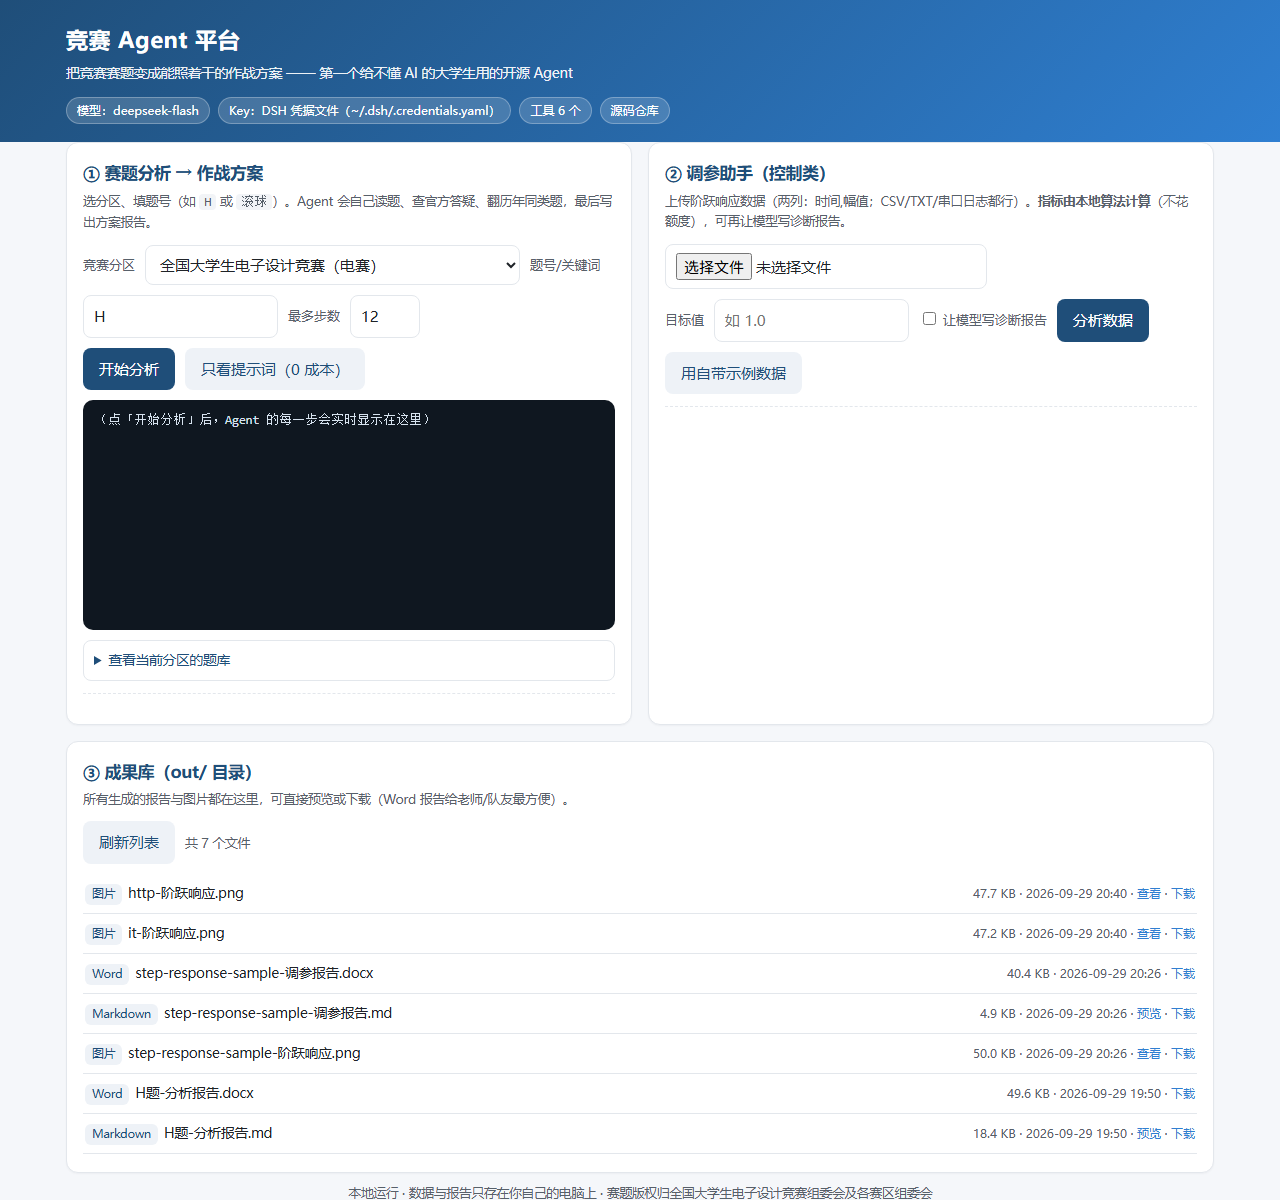
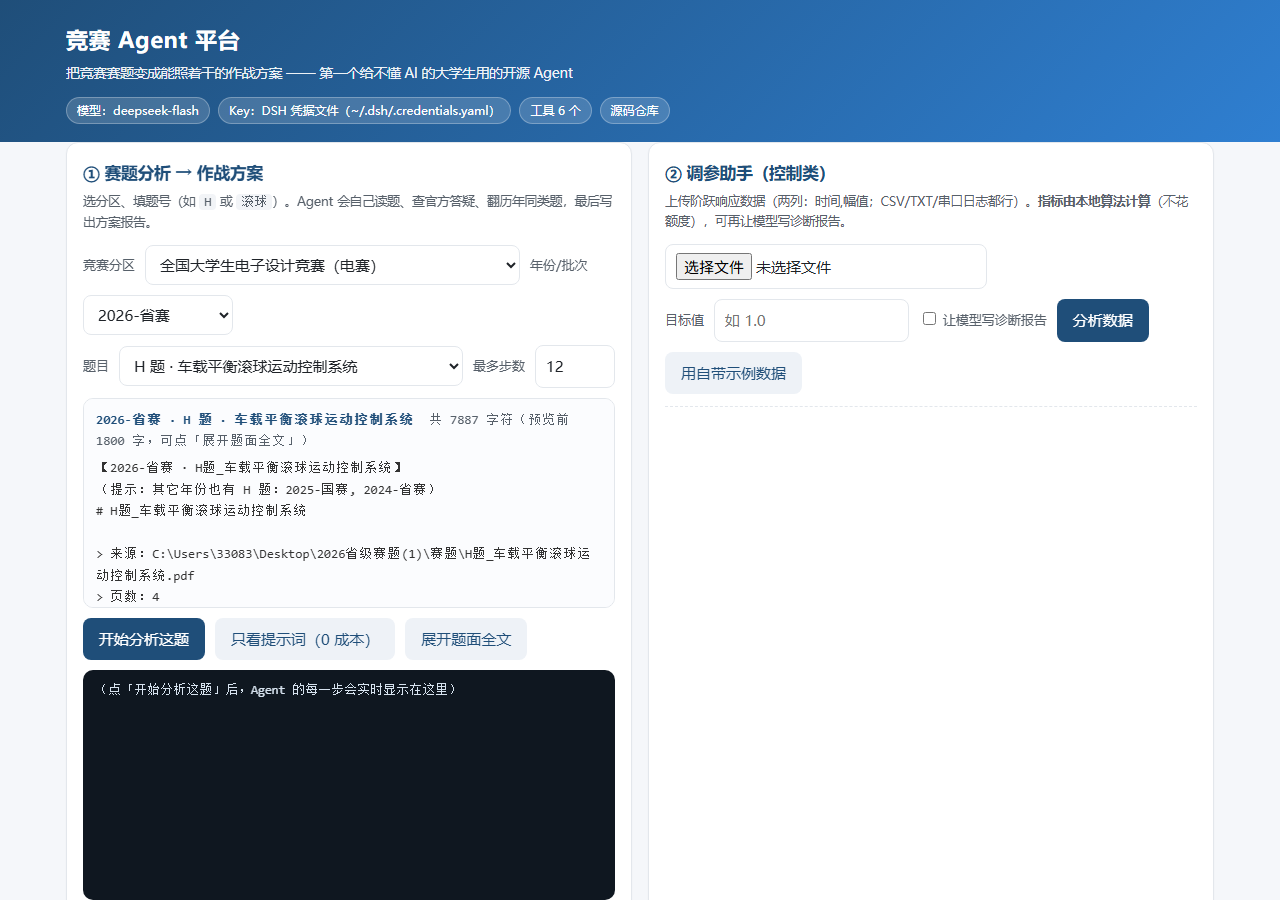
fix(web): 题目改成「年份/批次 + 题目」两级选择 + 题面预览（解决分析错年份）
问题（用户发现）：题库里 2021/2023/2024/2025/2026 都有 H 题，网页端只有一个
「题号/关键词」输入框，填 H 根本不知道要分析哪一年 —— 实际会按"最新年份"猜。

后端：
- shiti.py 新增 list_shiti_structured()（年份/批次、题号、题名、精确文件名、字数、label）
  与 _find_exact()（按文件名精确查找）
- read_shiti 新增 file 参数（精确文件名优先），并在多命中时提示其它年份
- 新接口 GET /api/shiti-list（结构化清单 + 年份列表）
- 新接口 GET /api/shiti-detail?file=...（按精确文件名读题面 + 元信息）
- /api/analyze 改为接收 file + label：任务描述里写明「2026-省赛 · H 题 · 车名」，
  并要求模型用 read_shiti(file=...) 精确定位、报告文件名带年份

前端：
- 第一行：竞赛分区 + 年份/批次；第二行：题目 + 最多步数（原排版会把"最多步数"挤到孤行）
- 新增题面预览面板（默认预览 1800 字，可点「展开题面全文」），
  预览里带年份/批次标题、字数、以及"其它年份也有 H 题：2025-国赛，2024-省赛"的提示
- 分析按钮改为「开始分析这题」，运行状态显示当前题目

测试：tests/test_web.py 20 → 32 项（覆盖结构化清单、同题号跨年份 5 道 H 题、
按 file 读题、题面元信息、非法 file 404、SSE 任务里带年份且要求 file 精确定位）。
三套共 79 项全过（全部离线）。

diff --git a/diansai_agent/web/static/index.html b/diansai_agent/web/static/index.html
@@ -50,6 +50,11 @@
   .log .ev-answer{color:#f9a8d4}
   .log .ev-error{color:#fca5a5}
   .log .ev-log{color:#cbd5e1}
+  .preview{background:#fbfcfe;border:1px solid var(--line);border-radius:10px;padding:10px 12px;
+           max-height:210px;overflow:auto;white-space:pre-wrap;font-size:13px;color:#333;
+           font-family:var(--mono);margin:4px 0 10px}
+  .preview.expanded{max-height:70vh}
+  .preview .pmeta{font-family:inherit;color:var(--brand);font-weight:600;margin-bottom:6px}
   .out{margin-top:12px;border-top:1px dashed var(--line);padding-top:12px}
   .out img{max-width:100%;border:1px solid var(--line);border-radius:8px;background:#fff}
   table{border-collapse:collapse;width:100%;margin:10px 0;font-size:13.5px}
@@ -89,19 +94,21 @@
       <p class="hint">选分区、填题号（如 <code>H</code> 或 <code>滚球</code>）。Agent 会自己读题、查官方答疑、翻历年同类题，最后写出方案报告。</p>
       <div class="row">
         <label>竞赛分区</label><select id="domain"></select>
-        <label>题号/关键词</label><input type="text" id="shiti" value="H" />
-        <label>最多步数</label><input type="number" id="steps" value="12" min="2" max="30" style="min-width:70px" />
+        <label>年份/批次</label><select id="year" style="min-width:150px"></select>
       </div>
       <div class="row">
-        <button id="goAnalyze">开始分析</button>
+        <label>题目</label><select id="shitiSel" style="flex:1;min-width:300px"></select>
+        <label title="Agent 最多跑多少步（越大越久，也越贵）">最多步数</label>
+        <input type="number" id="steps" value="12" min="2" max="30" style="min-width:70px;width:80px" />
+      </div>
+      <div class="preview" id="preview">（选好题目后，这里显示题面预览）</div>
+      <div class="row">
+        <button id="goAnalyze">开始分析这题</button>
         <button class="ghost" id="goDemo">只看提示词（0 成本）</button>
+        <button class="ghost" id="goFull">展开题面全文</button>
         <span class="status" id="analyzeStatus"></span>
       </div>
-      <div class="log" id="log">（点「开始分析」后，Agent 的每一步会实时显示在这里）</div>
-      <details id="shitiBox">
-        <summary>查看当前分区的题库</summary>
-        <pre id="shitiText">加载中…</pre>
-      </details>
+      <div class="log" id="log">（点「开始分析这题」后，Agent 的每一步会实时显示在这里）</div>
       <div class="out" id="analyzeOut"></div>
     </section>
 
@@ -195,17 +202,45 @@ const api=async(u,o)=>{const r=await fetch(u,o); if(!r.ok){const t=await r.text(
     ].join("");
     const d=await (await api("/api/domains")).json();
     $("domain").innerHTML=d.domains.map(x=>`<option value="${x.id}" ${x.implemented?"":"disabled"}>${x.name}${x.implemented?"":"（规划中）"}</option>`).join("");
-    loadShiti(); loadFiles();
+    await loadShitiList(); loadFiles();
   }catch(e){ $("ptag").textContent="加载失败："+e.message; }
 })();
 
-async function loadShiti(){
+// ───────────────────────── 题库：年份/批次 → 题目（两级选择 + 题面预览）─────────────────────────
+let SHITI=[], CUR=null;
+async function loadShitiList(){
   const dom=$("domain").value;
-  $("shitiText").textContent="加载中…";
-  try{ const r=await (await api("/api/shiti?domain="+encodeURIComponent(dom))).json();
-       $("shitiText").textContent=r.text; }catch(e){ $("shitiText").textContent="题库加载失败："+e.message; }
+  $("preview").innerHTML="（正在读取题库…）";
+  try{
+    const d=await (await api("/api/shiti-list?domain="+encodeURIComponent(dom))).json();
+    SHITI=d.items||[];
+    $("year").innerHTML='<option value="">全部年份/批次</option>'+
+      (d.years||[]).map(y=>`<option value="${y}">${y}</option>`).join("");
+    $("year").value=(d.years||[])[0]||"";      // 默认选最新一批
+    fillShitiSelect();
+  }catch(e){ $("preview").textContent="题库加载失败："+e.message; }
 }
-$("domain").addEventListener("change",loadShiti);
+function fillShitiSelect(){
+  const y=$("year").value;
+  const list=SHITI.filter(x=>!y||x.year===y);
+  $("shitiSel").innerHTML=list.map(x=>`<option value="${esc(x.file)}">${esc(x.code)} 题 · ${esc(x.title)}</option>`).join("")
+    || '<option value="">（该批次没有题目）</option>';
+  loadPreview();
+}
+async function loadPreview(expand){
+  const file=$("shitiSel").value;
+  CUR=SHITI.find(x=>x.file===file)||null;
+  if(!file||!CUR){ $("preview").textContent="（没有可预览的题目）"; return; }
+  $("preview").innerHTML='<div class="pmeta">'+esc(CUR.label)+'</div>(正在读取题面…)';
+  try{
+    const d=await (await api(`/api/shiti-detail?file=${encodeURIComponent(file)}&max_chars=${expand?200000:1800}`)).json();
+    $("preview").innerHTML='<div class="pmeta">'+esc(CUR.label)+'　<span style="color:#57606a;font-weight:400">共 '+CUR.chars+' 字符'+(expand?"（已展开全文）":"（预览前 1800 字，可点「展开题面全文」）")+'</span></div>'+esc(d.text);
+    $("preview").classList.toggle("expanded",!!expand);
+  }catch(e){ $("preview").textContent="题面读取失败："+e.message; }
+}
+$("year").addEventListener("change",fillShitiSelect);
+$("shitiSel").addEventListener("change",()=>loadPreview(false));
+$("goFull").onclick=()=>loadPreview(true);
 
 // ───────────────────────── ① 赛题分析（SSE 实时进度）─────────────────────────
 function push(kind,text){
@@ -214,10 +249,12 @@ function push(kind,text){
 }
 async function runAnalyze(useLLM){
   const btn=$("goAnalyze"); btn.disabled=true; $("log").textContent=""; $("analyzeOut").innerHTML="";
-  $("analyzeStatus").textContent="运行中…";
+  if(!CUR){ $("analyzeStatus").textContent="请先选一道题"; btn.disabled=false; return; }
+  $("analyzeStatus").textContent="运行中（"+CUR.label+"）…";
   try{
     const resp=await fetch("/api/analyze",{method:"POST",headers:{"Content-Type":"application/json"},
-      body:JSON.stringify({domain:$("domain").value,name:$("shiti").value,steps:+$("steps").value,use_llm:useLLM})});
+      body:JSON.stringify({domain:$("domain").value,file:CUR.file,label:CUR.label,
+                           steps:+$("steps").value,use_llm:useLLM})});
     if(!resp.ok) throw new Error(await resp.text());
     const reader=resp.body.getReader(), dec=new TextDecoder(); let buf="";
     while(true){
@@ -249,6 +286,7 @@ async function runAnalyze(useLLM){
 }
 $("goAnalyze").onclick=()=>runAnalyze(true);
 $("goDemo").onclick=()=>runAnalyze(false);
+$("domain").addEventListener("change",loadShitiList);
 
 // ───────────────────────── ② 调参助手 ─────────────────────────
 $("goSample").onclick=async()=>{

diff --git a/diansai_agent/web/app.py b/diansai_agent/web/app.py
@@ -25,7 +25,7 @@ from ..domains import DOMAINS, get_domain, list_domains, prompt_text
 from ..llm import LLM
 from ..loop import Agent
 from ..tools import ERROR_PREFIX, TOOL_SCHEMAS, call_tool, is_error
-from ..tools.shiti import list_shiti
+from ..tools.shiti import list_shiti, list_shiti_structured
 
 # ── 平台自我介绍（也是首页"这个项目是什么"的事实来源，改这里就够）───────────
 PLATFORM = {
@@ -110,17 +110,50 @@ def api_shiti(domain: str = "diansai") -> JSONResponse:
     return JSONResponse({"text": list_shiti()})
 
 
+@app.get("/api/shiti-list")
+def api_shiti_list(domain: str = "diansai") -> JSONResponse:
+    """结构化题目清单：年份/批次 + 题号 + 题名 + 文件名（网页端两级选择用）。"""
+    import os
+    os.environ["DIANSAI_DOMAIN"] = domain
+    _domain_or_400(domain)
+    items = list_shiti_structured()
+    years = sorted({x["year"] for x in items}, reverse=True)
+    return JSONResponse({"items": items, "years": years, "count": len(items)})
+
+
+@app.get("/api/shiti-detail")
+def api_shiti_detail(file: str, domain: str = "diansai", max_chars: int = 12000) -> JSONResponse:
+    """读某一道题的正文（用 file 精确定位，避免年份歧义）。"""
+    import os
+    os.environ["DIANSAI_DOMAIN"] = domain
+    _domain_or_400(domain)
+    text = call_tool("read_shiti", {"file": file, "max_chars": max_chars})
+    if is_error(text):
+        raise HTTPException(status_code=404, detail=text.replace(ERROR_PREFIX, "").strip())
+    meta = next((x for x in list_shiti_structured() if x["file"] == file), None)
+    return JSONResponse({"text": text, "meta": meta})
+
+
 @app.post("/api/analyze")
 def api_analyze(payload: dict) -> StreamingResponse:
-    """分析赛题：SSE 流式返回 Agent 的每一步。"""
+    """分析赛题：SSE 流式返回 Agent 的每一步。
+
+    定位方式：优先 `file`（网页端两级选择给出的精确文件名，能确定年份），
+    否则退回 `name`（题号或关键词，会提示年份歧义）。
+    """
     domain = (payload or {}).get("domain", "diansai")
+    file = ((payload or {}).get("file") or "").strip()
     name = ((payload or {}).get("name") or "").strip()
+    label = ((payload or {}).get("label") or "").strip()
     use_llm = bool((payload or {}).get("use_llm", True))
     steps = int((payload or {}).get("steps", 12))
     d = _domain_or_400(domain)
     cfg = Config()
-    if not name:
-        raise HTTPException(status_code=400, detail="请填题号或题目关键词")
+    if not file and not name:
+        raise HTTPException(status_code=400, detail="请选择一道题（或填题号/关键词）")
+
+    # 目标描述：带上年份/批次，报告与提示词里都不会再有歧义
+    target_desc = label or (f"{file}" if file else f"题号/关键词「{name}」")
 
     def gen():
         def send(obj):
@@ -130,7 +163,7 @@ def api_analyze(payload: dict) -> StreamingResponse:
             why = "演示模式（未调用模型）" if use_llm is False else "未找到 API Key"
             yield send({"kind": "log", "text": f"⚠ {why}：本次只展示将要发给模型的提示词。"})
             system = prompt_text(d, "system")
-            task = prompt_text(d, "analyze") + f"\n\n【本次任务】分析「{name}」这道题。"
+            task = _build_task(d, target_desc, file, name)
             yield send({"kind": "prompt", "system": system, "task": task})
             yield send({"kind": "done", "answer": ""})
             return
@@ -141,7 +174,7 @@ def api_analyze(payload: dict) -> StreamingResponse:
             try:
                 agent = Agent(LLM(cfg), prompt_text(d, "system"), max_steps=steps,
                               verbose=False, on_event=q.put)
-                answer = agent.run(prompt_text(d, "analyze") + f"\n\n【本次任务】分析「{name}」这道题。")
+                answer = agent.run(_build_task(d, target_desc, file, name))
                 q.put({"kind": "usage", **agent.usage_total})
                 q.put({"kind": "done", "answer": answer})
             except Exception as e:               # 任何异常都要让前端看到，不能静默
@@ -157,6 +190,20 @@ def api_analyze(payload: dict) -> StreamingResponse:
 
     return StreamingResponse(gen(), media_type="text/event-stream",
                              headers={"Cache-Control": "no-cache", "X-Accel-Buffering": "no"})
+
+
+def _build_task(d, target_desc: str, file: str, name: str) -> str:
+    """拼出交给模型的任务描述（把年份/文件名说清楚，避免分析错年份）。"""
+    lines = [prompt_text(d, "analyze"),
+             f"\n\n【本次任务】分析这道题：**{target_desc}**"]
+    if file:
+        lines.append(f"\n读题时请用 `read_shiti(file=\"{file}\")` 精确读取，"
+                     f"**不要**只按题号读（题库里多个年份有同题号，会读错年份）。")
+    elif name:
+        lines.append(f"\n读题时用 `read_shiti(name=\"{name}\")`；"
+                     f"若它提示存在多个年份的同题号，请先向用户确认要哪一年。")
+    lines.append("\n报告文件名请带上年份/批次，例如 `2025-国赛-H题-分析报告.md`。")
+    return "".join(lines)
 
 
 @app.post("/api/tune")

diff --git a/diansai_agent/tools/shiti.py b/diansai_agent/tools/shiti.py
@@ -104,17 +104,47 @@ def list_shiti() -> str:
     if not files:
         return f"[错误] 题库为空。已查找：{', '.join(str(d) for d in kb_dirs())}"
     groups: dict[str, list[str]] = {}
-    for p in files:
-        year = p.parent.name
-        m = re.match(r"([A-Za-z])\s*题", p.stem)
-        code = m.group(1).upper() if m else "?"
-        title = re.sub(r"^[A-Za-z]\s*题[_ ]*", "", p.stem).replace("_", " ")
-        groups.setdefault(year, []).append(f"  {code} 题 | {title} | {p.stat().st_size} 字节")
+    for item in list_shiti_structured():
+        groups.setdefault(item["year"], []).append(
+            f"  {item['code']} 题 | {item['title']} | {item['chars']} 字符")
     lines = [f"题库（共 {len(files)} 道题，来自 {len(groups)} 个年份/批次）："]
     for year in sorted(groups, reverse=True):
         lines.append(f"\n【{year}】")
         lines += groups[year]
     return "\n".join(lines)
+
+
+def list_shiti_structured() -> list[dict]:
+    """结构化题目清单（给网页端做"年份+题目"两级选择用）。
+
+    为什么需要：题库里 2021/2023/2024/2025/2026 **都有 H 题**，
+    只按题号找会有歧义 —— 必须带上「年份/批次」和文件名才能唯一定位。
+    """
+    items = []
+    for p in _all_md():
+        m = re.match(r"([A-Za-z])\s*题?[_．.\s]?", p.stem)
+        code = (m.group(1).upper() if m else "?")
+        title = re.sub(r"^[A-Za-z]\s*题?[_．.\s]*", "", p.stem).replace("_", " ").strip()
+        items.append({
+            "year": p.parent.name,
+            "code": code,
+            "title": title,
+            "file": p.stem,          # 唯一定位用（去重后的口径与 _all_md 一致）
+            "chars": p.stat().st_size,
+            "label": f"{p.parent.name} · {code} 题 · {title}",
+        })
+    items.sort(key=lambda x: (x["year"], x["code"]), reverse=True)
+    return items
+
+
+def _find_exact(file_or_stem: str) -> Path | None:
+    """按文件名/文件名去扩展名精确查找（网页端传的就是它，避免歧义）。"""
+    key = Path(file_or_stem or "").name
+    key_ns = key[:-3] if key.lower().endswith(".md") else key
+    for p in _all_md():
+        if p.name == key or p.stem == key_ns:
+            return p
+    return None
 
 
 def _find(name: str) -> Path | None:
@@ -134,11 +164,19 @@ def _find(name: str) -> Path | None:
     return None
 
 
-def read_shiti(name: str, max_chars: int = 8000) -> str:
-    """读取某道赛题正文（多来源命中时，提示还有别的年份同名题）。"""
-    p = _find(name)
+def read_shiti(name: str = "", max_chars: int = 8000, file: str = "") -> str:
+    """读取某道赛题正文。
+
+    优先用 `file`（网页端传来的精确文件名，能唯一定位年份）；否则按 `name`（题号或关键词）找，
+    并在多命中时提示其它年份的同题号题目。
+    """
+    p = _find_exact(file) if file else None
     if p is None:
-        return f"[错误] 题库里没找到「{name}」。先 list_shiti 看看有什么。"
+        p = _find(name)
+    if p is None:
+        which = file or name
+        return (f"[错误] 题库里没找到「{which}」。先 list_shiti 看看有什么；"
+                f"若有多个年份同题号，请用 file 参数精确指定（如 '2025-国赛/H题_野生动物巡查系统'）。")
     text = p.read_text(encoding="utf-8")
     total = len(text)
     if total > max_chars:

diff --git a/tests/test_web.py b/tests/test_web.py
@@ -54,6 +54,24 @@ def main() -> int:
     bad = client.get("/api/shiti?domain=不存在的分区")
     check("未知分区返回 400", bad.status_code == 400, str(bad.status_code))
 
+    print("\n== 2b. 结构化题目清单（年份/批次 + 题号，解决年份歧义）==")
+    lst = client.get("/api/shiti-list").json()
+    items, years = lst["items"], lst["years"]
+    check("清单非空", len(items) >= 30, f"{len(items)} 条")
+    check("覆盖 5 个年份/批次", len(years) >= 5, str(years))
+    check("每条含 year/code/title/file/label",
+          all(all(k in it for k in ("year", "code", "title", "file", "label")) for it in items))
+    h_items = [it for it in items if it["code"] == "H"]
+    check("同题号跨年份（H 题有多个年份）", len(h_items) >= 3, f"{len(h_items)} 个 H 题")
+    check("同题号文件名互不相同（可用 file 唯一定位）",
+          len({it["file"] for it in h_items}) == len(h_items))
+
+    target = next(it for it in items if it["code"] == "H")
+    det = client.get(f"/api/shiti-detail?file={target['file']}").json()
+    check("按 file 能读到题面", len(det.get("text", "")) > 300 and "错误" not in det["text"][:8])
+    check("题面返回元信息（年份/题号）", (det.get("meta") or {}).get("year") == target["year"])
+    check("读不存在的题 → 404", client.get("/api/shiti-detail?file=不存在.md").status_code == 404)
+
     print("\n== 3. 调参接口（上传示例数据，不调模型）==")
     sample = ROOT / "samples" / "step-response-sample.csv"
     if not sample.exists():
@@ -87,6 +105,16 @@ def main() -> int:
     print("\n== 5. 报告列表 ==")
     r = client.get("/api/reports").json()
     check("报告列表可用（items 是列表）", isinstance(r.get("items"), list))
+
+    print("\n== 6. 分析接口（演示模式，不调模型）==")
+    with client.stream("POST", "/api/analyze",
+                       json={"domain": "diansai", "file": target["file"],
+                             "label": target["label"], "use_llm": False}) as resp:
+        body = "".join(chunk for chunk in resp.iter_text())
+    check("SSE 返回 200", resp.status_code == 200, str(resp.status_code))
+    check("SSE 里有提示词事件", '"kind": "prompt"' in body or '"kind":"prompt"' in body)
+    check("任务里带上了年份/批次（不会分析错年份）", target["year"] in body, target["year"])
+    check("提示词要求用 file 精确定位", "read_shiti" in body and target["file"] in body)
 
     print("\n" + "=" * 52)
     print(f"通过 {len(PASS)} 项，失败 {len(FAIL)} 项")

diff --git a/diansai_agent/tools/__init__.py b/diansai_agent/tools/__init__.py
@@ -31,7 +31,7 @@ TOOL_SCHEMAS = [
         "type": "function",
         "function": {
             "name": "list_shiti",
-            "description": "列出本地真题库里的所有赛题（题号、标题、文件）。开始分析前先调用它，确认题号对应哪道题。",
+            "description": "列出本地题库里的所有赛题（年份/批次、题号、标题、文件名）。开始分析前先调用它，确认要分析的是哪一年哪道题（多个年份可能有同题号）。",
             "parameters": {"type": "object", "properties": {}, "required": []},
         },
     },
@@ -39,14 +39,15 @@ TOOL_SCHEMAS = [
         "type": "function",
         "function": {
             "name": "read_shiti",
-            "description": "读取某道赛题的正文（已做过 PDF 排版清洗）。参数 name 可以是题号（如 H）或文件名片段。",
+            "description": "读取某道赛题的正文（已做 PDF 排版清洗）。题库里多个年份可能有同题号（如 2021/2023/2025 都有 H 题），所以要精确定位时请用 file 参数（由 list_shiti 给出）。",
             "parameters": {
                 "type": "object",
                 "properties": {
                     "name": {"type": "string", "description": "题号或文件名片段，例如 'H' 或 '滚球'"},
+                    "file": {"type": "string", "description": "精确的文件名/文件名去扩展名（推荐，避免年份歧义）"},
                     "max_chars": {"type": "integer", "description": "最多返回多少字符，默认 8000"},
                 },
-                "required": ["name"],
+                "required": [],
             },
         },
     },
